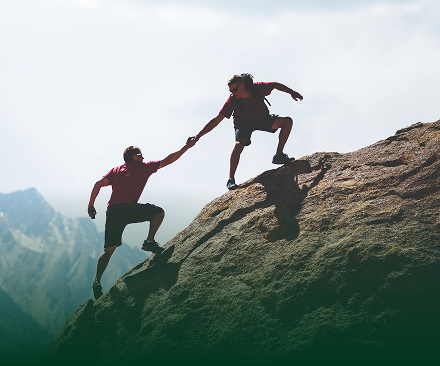
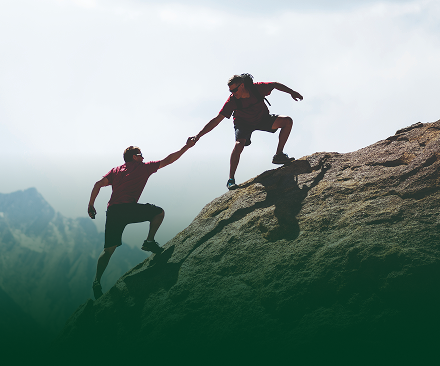
update model and partner steper page

diff --git a/src/components/common/UserModal.tsx b/src/components/common/UserModal.tsx
@@ -85,6 +85,8 @@ export default function UserModal({
   const [fpLoading, setFpLoading] = useState(false);
   const [fpError, setFpError] = useState<string | null>(null);
   const [isSignUpOpen, setIsSignUpOpen] = useState(false);
+  const [isVisible, setIsVisible] = useState(false);
+  const [isAnimating, setIsAnimating] = useState(false);
 
   const {
     register,
@@ -162,13 +164,33 @@ export default function UserModal({
   }, [token, user, onClose, navigate, open, redirectTo]);
 
   React.useEffect(() => {
-    if (!open) return;
-    const original = document.body.style.overflow;
-    document.body.style.overflow = "hidden";
+    let showTimer: ReturnType<typeof setTimeout> | null = null;
+    let hideTimer: ReturnType<typeof setTimeout> | null = null;
+    const animationDuration = 400;
+
+    if (open) {
+      setIsAnimating(true);
+      setIsVisible(false);
+      showTimer = window.setTimeout(() => setIsVisible(true), 20);
+
+      const original = document.body.style.overflow;
+      document.body.style.overflow = "hidden";
+
+      return () => {
+        if (showTimer) window.clearTimeout(showTimer);
+        document.body.style.overflow = original;
+      };
+    }
+
+    if (!open && isAnimating) {
+      setIsVisible(false);
+      hideTimer = window.setTimeout(() => setIsAnimating(false), animationDuration);
+    }
+
     return () => {
-      document.body.style.overflow = original;
+      if (hideTimer) window.clearTimeout(hideTimer);
     };
-  }, [open]);
+  }, [open, isAnimating]);
 
   const onSubmit = (data: { userName: string; password: string }) => {
     dispatch(loginThunk(data));
@@ -276,14 +298,28 @@ export default function UserModal({
     setIsSignUpOpen(true);
   };
 
-  if (!open) return null;
+  if (!open && !isAnimating) return null;
 
   return ReactDOM.createPortal(
-    <div className="fixed inset-0 z-[1000]">
-      <div className="absolute inset-0 bg-black/40" onClick={onClose} />
-      <div className="absolute inset-0 flex items-center justify-center">
-        <div className="w-[370px]">
-          <div className="relative rounded-[23px] bg-[#E6E7E9] shadow-2xl w-full">
+    <>
+      <div
+        className={`fixed inset-0 z-[1000] flex items-center justify-center transition-opacity duration-400 ${
+          isVisible ? "opacity-100" : "opacity-0 pointer-events-none"
+        }`}
+      >
+        <div
+          className={`absolute inset-0 bg-black/40 transition-opacity duration-400 ${
+            isVisible ? "opacity-100" : "opacity-0"
+          }`}
+          onClick={onClose}
+        />
+        <div className="relative w-[370px] px-4">
+          <div
+            className={`relative rounded-[23px] bg-[#E6E7E9] shadow-2xl w-full transition-all duration-400 ${
+              isVisible ? "opacity-100 scale-100 translate-y-0" : "opacity-0 scale-95 translate-y-6"
+            }`}
+            style={{ willChange: "transform, opacity" }}
+          >
             {!hideCloseIcon && (
               <button
                 onClick={onClose}
@@ -559,7 +595,7 @@ export default function UserModal({
         </div>
       </div>
       <SignUpModal open={isSignUpOpen} onClose={() => setIsSignUpOpen(false)} />
-    </div>,
+    </>,
     document.body
   );
 }

diff --git a/src/features/auth/ForgotPasswordModal.tsx b/src/features/auth/ForgotPasswordModal.tsx
@@ -1,5 +1,5 @@
 // components/ForgotPasswordModal.tsx
-import { useState } from "react";
+import { useEffect, useState } from "react";
 import { useForm } from "react-hook-form";
 import { zodResolver } from "@hookform/resolvers/zod";
 import { z } from "zod";
@@ -25,6 +25,32 @@ export default function ForgotPasswordModal({
   const [error, setError] = useState("");
   const [showNewPassword, setShowNewPassword] = useState(false);
   const [showConfirmPassword, setShowConfirmPassword] = useState(false);
+  const [shouldRender, setShouldRender] = useState(false);
+  const [isVisible, setIsVisible] = useState(false);
+  const TRANSITION_DURATION = 350;
+
+  useEffect(() => {
+    let hideTimer: ReturnType<typeof setTimeout> | null = null;
+    if (isOpen) {
+      setShouldRender(true);
+      requestAnimationFrame(() => setIsVisible(true));
+    } else if (shouldRender) {
+      setIsVisible(false);
+      hideTimer = window.setTimeout(() => setShouldRender(false), TRANSITION_DURATION);
+    }
+    return () => {
+      if (hideTimer) window.clearTimeout(hideTimer);
+    };
+  }, [isOpen, shouldRender]);
+
+  useEffect(() => {
+    if (!shouldRender) return;
+    const original = document.body.style.overflow;
+    document.body.style.overflow = "hidden";
+    return () => {
+      document.body.style.overflow = original;
+    };
+  }, [shouldRender]);
 
   // Step 1: Email Schema
   const emailSchema = z.object({
@@ -244,7 +270,7 @@ export default function ForgotPasswordModal({
     onClose();
   };
 
-  if (!isOpen) return null;
+  if (!shouldRender) return null;
 
   const getStepTitle = () => {
     switch (step) {
@@ -262,8 +288,17 @@ export default function ForgotPasswordModal({
   };
 
   return (
-    <div className="fixed inset-0 flex items-center justify-center bg-black/50 z-50">
-      <div className="w-full max-w-lg bg-white rounded-4xl shadow-xl p-8 mx-4 max-h-[90vh] flex flex-col">
+    <div
+      className={`fixed inset-0 flex items-center justify-center bg-black/50 z-50 transition-opacity duration-300 ${
+        isVisible ? "opacity-100" : "opacity-0"
+      }`}
+      style={{ pointerEvents: isVisible ? "auto" : "none" }}
+    >
+      <div
+        className={`w-full max-w-lg bg-white rounded-4xl shadow-xl p-8 mx-4 max-h-[90vh] flex flex-col transform transition-all duration-300 ${
+          isVisible ? "opacity-100 scale-100 translate-y-0" : "opacity-0 scale-95 translate-y-4"
+        }`}
+      >
         <div className="flex justify-between items-center mb-6">
           <h2 className="text-2xl font-semibold text-gray-900">
             {getStepTitle()}

diff --git a/src/features/partners/PartnerPages/PartnerSteperPara.tsx b/src/features/partners/PartnerPages/PartnerSteperPara.tsx
@@ -32,7 +32,7 @@ function ParentSteperPara() {
     },
   ];
   return (
-    <div className="bg-[#053628]">
+    <div className="bg-[#01351f]">
       <div className="flex items-start justify-center px-4 sm:px-6 py-8 sm:py-12 md:py-14">
         <div className="max-w-6xl mx-auto text-center">
           <div className="space-y-0">
@@ -45,7 +45,7 @@ function ParentSteperPara() {
           </div>
         </div>
       </div>
-      <div className="bg-[#053628] min-h-screen px-4 sm:px-6 py-8 sm:py-10">
+      <div className="bg-[#01351f] min-h-screen px-4 sm:px-6 py-8 sm:py-10">
         <div className="max-w-5xl mx-auto">
           <h2 className="text-white text-2xl sm:text-3xl md:text-4xl lg:text-5xl font-bold text-center mb-8 sm:mb-12 md:mb-16 figtree">
             {t("partnerSteperPara.heading")}

diff --git a/src/features/partners/PartnerDashboard.tsx b/src/features/partners/PartnerDashboard.tsx
@@ -1,5 +1,5 @@
 import PartnerHeader from "./PartnerPages/PartnerHeader";
-import partnerlandingImg from "/src/assets/userImages/partnerDashboard.png";
+import partnerlandingImg from "/src/assets/userImages/partnerStepperImg.png";
 import PartnerSteper from "./PartnerPages/PartnerSteper";
 import ParentSteperPara from "./PartnerPages/PartnerSteperPara";
 

diff --git a/src/styles/index.css b/src/styles/index.css
@@ -29,6 +29,10 @@ body,
   height: 100%;
 }
 
+html {
+  scroll-behavior: smooth;
+}
+
 /* Landing Page Styles */
 .landing-bg {
   background-image: url('/landing_img.png');
